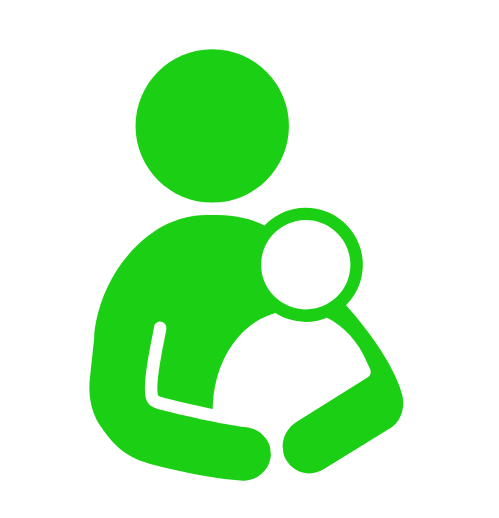
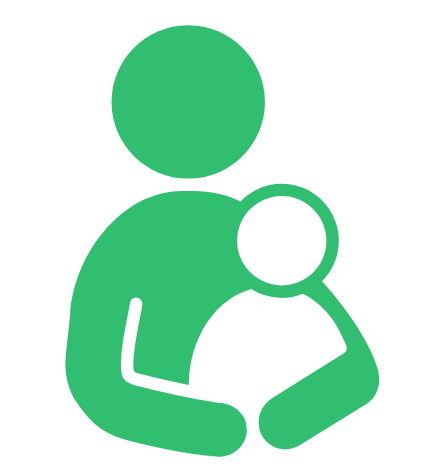
changed color of assets, edited skills section

diff --git a/src/components/About.js b/src/components/About.js
@@ -97,46 +97,63 @@ const About = () => {
             <div className="skills-box">
               <h3>My skills</h3>
               <p>
-                {`I'm`} a Freelancer Front-end Developer with over 3 years of
-                experience. I code and create web elements for amazing people
-                around the world. I like work with new people. New people new
-                Experiences.
+                As a skilled educator, I can guide students in honing their
+                writing skills, including sentence construction, grammar,
+                punctuation, and proper mechanics. Additionally, I am proficient
+                in coaching them on crafting well-structured essays across
+                various writing styles, such as narrative, expository, and
+                persuasive. My expertise extends to empowering students with
+                valuable study strategies and preparing them for reading and
+                math assessments. In mathematics, I am well-versed in Common
+                Core Math, Number Sense, Problem Solving, Interpreting Data,
+                Fractions, Decimals, and Geometry.
               </p>
-              <div className="skill-lt">
+              <p>
+                Moreover, I have a proven track record of helping students excel
+                in Literature, Informational Text, Grammar, Foundational Skills,
+                Reading-Fluency, and Comprehension. In science education, I have
+                successfully aided students in understanding Forces, Life
+                Science, Environments and Survival, Weather, and Climate.
+                Notably, my dedication to assisting students behind in reading,
+                writing, math, and science has consistently propelled them to
+                achieve academic progress, ensuring they reach their full
+                potential by the end of each year.
+              </p>
+              {/* <div className="skill-lt">
                 <h6>HTML5</h6>
                 <div className="skill-bar">
                   <div className="skill-bar-in" style={{ width: "92%" }}>
                     <span data-toggle="tooltip" title="92%" />
                   </div>
                 </div>
-              </div>
+              </div> */}
               {/* /skill */}
-              <div className="skill-lt">
+              {/* <div className="skill-lt">
                 <h6>WordPress</h6>
                 <div className="skill-bar">
                   <div className="skill-bar-in" style={{ width: "72%" }}>
                     <span data-toggle="tooltip" title="72%" />
                   </div>
                 </div>
-              </div>
+              </div> */}
               {/* /skill */}
-              <div className="skill-lt">
+              {/* <div className="skill-lt">
                 <h6>Magento</h6>
                 <div className="skill-bar">
                   <div className="skill-bar-in" style={{ width: "86%" }}>
                     <span data-toggle="tooltip" title="86%" />
                   </div>
                 </div>
-              </div>
+              </div> */}
               {/* /skill */}
-              <div className="skill-lt">
+              {/* <div className="skill-lt">
                 <h6>UI/UX</h6>
                 <div className="skill-bar">
                   <div className="skill-bar-in" style={{ width: "88%" }}>
                     <span data-toggle="tooltip" title="88%" />
                   </div>
                 </div>
-              </div>
+              </div> */}
               {/* /skill */}
             </div>
           </div>

diff --git a/src/components/Services.js b/src/components/Services.js
@@ -22,7 +22,9 @@ const Services = () => {
               <div className="feature-content media-body">
                 <h5>Math</h5>
                 <p>
-                  Common Core Math, Number Sense, Problem Solving, Interpreting Data, Fractions and Decimals, Geomtry
+                  I can assist students with math topics such as Common Core
+                  Math, Number Sense, Problem Solving, Interpreting Data,
+                  Fractions and Decimals, and Geometry.
                 </p>
               </div>
             </div>
@@ -33,7 +35,8 @@ const Services = () => {
               <div className="feature-content media-body">
                 <h5>Regular Test Preparation</h5>
                 <p>
-                  Study skills, strategies to prepare for reading and math tests
+                  I can assist students with study skills and give them
+                  strategies to prepare for reading and math tests.
                 </p>
               </div>
             </div>
@@ -44,7 +47,11 @@ const Services = () => {
               <div className="feature-content media-body">
                 <h5>Writing</h5>
                 <p>
-                  I can assist students with writing complete sentences and using correct mechanics such as capitalization, puncation, spelling, and grammar. Additionally, I can help them with structuring essays in paragraphs and teaching narrative, expository, and persuasive writing.
+                  I can assist students with writing complete sentences and
+                  using correct mechanics such as capitalization, punctuation,
+                  spelling, and grammar. Additionally, I can help them structure
+                  essays in paragraphs and teach narrative, expository, and
+                  persuasive writing.
                 </p>
               </div>
             </div>
@@ -55,7 +62,9 @@ const Services = () => {
               <div className="feature-content media-body">
                 <h5>English</h5>
                 <p>
-                  Literature, Informational Text, Grammar, Foundational Skills, Reading-Fluency and Comprehension, Writing
+                  I can assist students with Literature, Informational Text,
+                  Grammar, Foundational Skills, Reading-Fluency, and
+                  Comprehension.
                 </p>
               </div>
             </div>
@@ -66,7 +75,8 @@ const Services = () => {
               <div className="feature-content media-body">
                 <h5>Science</h5>
                 <p>
-                  Forces, Life Science, Environments and Survival, Weather and Climate
+                  I can assist students with understanding Forces, Life Science,
+                  Environments and Survival, Weather, and Climate.
                 </p>
               </div>
             </div>
@@ -77,7 +87,9 @@ const Services = () => {
               <div className="feature-content media-body">
                 <h5>Social Studies</h5>
                 <p>
-                  Evaluating Sources and Using Evidence, Civic and Political Institutions, Geography
+                  I can assist students with social studies topics such as
+                  Evaluating Sources and Using Evidence, Civic and Political
+                  Institutions, and Geography.
                 </p>
               </div>
             </div>

diff --git a/src/components/Contact.js b/src/components/Contact.js
@@ -15,7 +15,7 @@ const Contact = () => {
           <div className="col-lg-7 col-xl-8 m-15px-tb">
             <div className="contact-info">
               <h4>I would love to help you! Get in touch</h4>
-              <p>Always available for tutoring. Feel free to contact me.</p>
+              <p>I am always available for tutoring. Feel free to contact me.</p>
               <ul>
                 <li className="media">
                   <i className="ti-map" />
@@ -23,7 +23,7 @@ const Contact = () => {
                 </li>
                 <li className="media">
                   <i className="ti-email" />
-                  <span className="media-body">support@domain.com</span>
+                  <span className="media-body">parksplacetutoring@gmail.com</span>
                 </li>
                 {/* <li className="media">
                   <i className="ti-mobile" />

diff --git a/pages/demo.js b/pages/demo.js
@@ -17,7 +17,7 @@ const Demo = () => {
               <div className="col-md-12 col-lg-9 text-center">
                 <div className="text-center">
                   <h1 className="mb-4 font-weight-bold text-white">
-                    Sergio – Portfolio/CV/Resume React NextJS Template.
+                    Nettie Parks – Portfolio/CV/Resume React NextJS Template.
                   </h1>
                   <div className="btn-bar p-15px-t">
                     <a href="#" className="px-btn px-btn-theme">

diff --git a/pages/single-blog.js b/pages/single-blog.js
@@ -21,7 +21,7 @@ const SingleBlog = () => {
                       <Image src="/static/img/team-1.jpg" title="" alt="" />
                     </div>
                     <div className="media-body">
-                      <label>Sergio Roth</label>
+                      <label>Nettie Parks</label>
                       <span>26 FEB 2022</span>
                     </div>
                   </div>

diff --git a/src/layout/Header.js b/src/layout/Header.js
@@ -15,7 +15,7 @@ const Header = ({ blog }) => {
         <div className="d-flex">
           <div className="navbar-brand">
             <Link href="/">
-              <a className="logo-text">Sergio</a>
+              <a className="logo-text">Nettie Parks Tutoring</a>
             </Link>
           </div>
           <button

diff --git a/public/static/css/style.css b/public/static/css/style.css
@@ -1,7 +1,7 @@
 /*------------------------------------------------------------------
 [Master Stylesheet]
 
-Project:    Sergio Personal Portfolio
+Project:    Nettie Parks Personal Portfolio
 Version:    1.0
 Primary use:    pxdraft
 -------------------------------------------------------------------*/

diff --git a/public/static/scss/style.scss b/public/static/scss/style.scss
@@ -1,7 +1,7 @@
 /*------------------------------------------------------------------
 [Master Stylesheet]
 
-Project:    Sergio Personal Portfolio
+Project:    Nettie Parks Personal Portfolio
 Version:    1.0
 Primary use:    pxdraft
 -------------------------------------------------------------------*/
